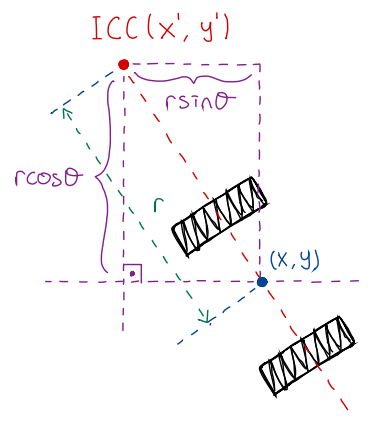
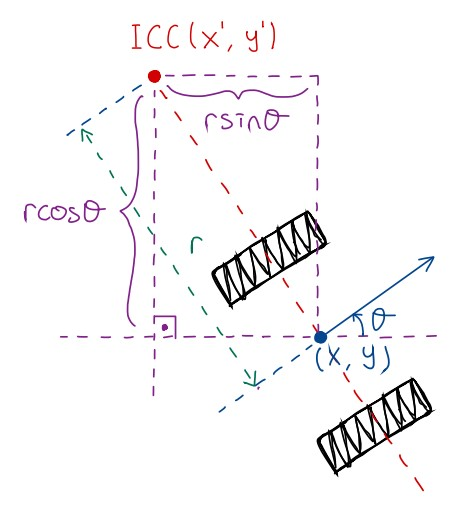
Update README.md

diff --git a/README.md b/README.md
@@ -2,11 +2,11 @@
 
 A differential wheeled robot is a mobile robot whose movement is based on two separately driven wheels placed on either side of the robot body. It can thus change its direction by varying the relative rate of rotation of its wheels and hence does not require an additional steering motion.
 
-Many mobile robots use a drive mechanism known as differential drive. It consists of 2 drive wheels mounted on a common axis, and each wheel can independently being driven either forward or backward.
-
 <p align="center">
-  <img src="https://github.com/abdullahdangac/Differential-Drive-Robot-Simulations/blob/main/images/differential_drive_robot.png" alt="Differential Drive Robot" width="30%" height="30%" title="Differential Drive Robot">
+  <img src="https://github.com/abdullahdangac/Differential-Drive-Robot-Simulations/blob/main/images/differential_drive_robot.png" alt="Differential Drive Robot" width="32%" height="32%" title="Differential Drive Robot">
 </p>
+
+Many mobile robots use a drive mechanism known as differential drive. It consists of 2 drive wheels mounted on a common axis, and each wheel can independently being driven either forward or backward.
 
 
 <br />
@@ -15,7 +15,7 @@ Many mobile robots use a drive mechanism known as differential drive. It consist
 ## Differential Drive Behavior
 
 <p align="center">
-  <img src="https://github.com/abdullahdangac/Differential-Drive-Robot-Simulations/blob/main/images/robot_by_icc.png" alt="Robot by ICC" width="33%" height="33%" title="Robot by ICC">
+  <img src="https://github.com/abdullahdangac/Differential-Drive-Robot-Simulations/blob/main/images/robot_by_icc.png" alt="Robot by ICC" width="35%" height="35%" title="Robot by ICC">
 </p>
 
 $v_r : linear$&nbsp; $velocity$&nbsp; $of$&nbsp; $right$&nbsp; $wheel$  
@@ -24,6 +24,8 @@ $v : linear$&nbsp; $velocity$&nbsp; $of$&nbsp; $robot$;
 $w : angular$&nbsp; $velocity$&nbsp; $of$&nbsp; $robot$  
 $r : radius$&nbsp; $of$&nbsp; $curvature$;  
 $l : width$&nbsp; $of$&nbsp; $robot$;
+
+By varying the velocities of the two wheels, we can vary the trajectories that the robot takes. Because the rate of rotation $w$ about the ICC must be the same for both wheels, we can write the following equations:  
 
 $$v_l = w(r - \frac{l}{2})$$  
 
@@ -44,7 +46,7 @@ $$r = \frac{l}{2}\frac{(v_r + v_l)}{(v_r - v_l)}$$
 If the robot is moving in a curve, there is a center of that curve at that moment, known as the Instantaneous Center of Curvature (or ICC).
 
 <p align="center">
-  <img src="https://github.com/abdullahdangac/Differential-Drive-Robot-Simulations/blob/main/images/icc_pose_update.png" alt="ICC Pose Update" width="38%" height="38%" title="ICC Pose Update">
+  <img src="https://github.com/abdullahdangac/Differential-Drive-Robot-Simulations/blob/main/images/icc_pose_update.png" alt="ICC Pose Update" width="40%" height="40%" title="ICC Pose Update">
 </p>
 
 
@@ -53,12 +55,12 @@ If the robot is moving in a curve, there is a center of that curve at that momen
 ICC point formula:
 
 <p align="center">
-  <img src="https://github.com/abdullahdangac/Differential-Drive-Robot-Simulations/blob/main/images/icc_point.png" alt="ICC Point" width="30%" height="30%" title="ICC Point">
+  <img src="https://github.com/abdullahdangac/Differential-Drive-Robot-Simulations/blob/main/images/icc_point.png" alt="ICC Point" width="33%" height="33%" title="ICC Point">
 
 
 $$x' = x - r\sin\theta$$
 
-$$y' = y - r\cos\theta$$  
+$$y' = y + r\cos\theta$$  
 
 
 <br />
@@ -70,8 +72,10 @@ $$y' = y - r\cos\theta$$
 In linear algebra, a rotation matrix is a transformation matrix that is used to perform a rotation in Euclidean space.
 
 <p align="center">
-  <img src="https://github.com/abdullahdangac/Differential-Drive-Robot-Simulations/blob/main/images/rotation.png" alt="Rotation" width="27%" height="27%" title="Rotation">
-</p>
+  <img src="https://github.com/abdullahdangac/Differential-Drive-Robot-Simulations/blob/main/images/rotation.png" alt="Rotation" width="30%" height="30%" title="Rotation">
+</p>  
+
+new position of the robot rotated at an angle theta around the origin:  
 
 $$
 \begin{bmatrix} 
@@ -137,7 +141,7 @@ $$\theta' = \theta + w\delta t$$
 Unicycle robot, an idealised one-wheeled robot moving in a two-dimensional world, used as an example in control theory problems.
 
 <p align="center">
-  <img src="https://github.com/abdullahdangac/Differential-Drive-Robot-Simulations/blob/main/images/unicycle_model.png" alt="Unicycle Model" width="32%" height="32%" title="Unicycle Model">
+  <img src="https://github.com/abdullahdangac/Differential-Drive-Robot-Simulations/blob/main/images/unicycle_model.png" alt="Unicycle Model" width="35%" height="35%" title="Unicycle Model">
 </p>
 
 <br />
@@ -154,13 +158,13 @@ $$
 
 <br />
 
-axis velocities of unicycle model:
+axis velocities of unicycle robot:
 
-$$v_x = \dot x = v\cos\phi$$
+$$\dot x = v\cos\phi$$
 
-$$v_y = \dot y = v\sin\phi$$
+$$\dot y = v\sin\phi$$
 
-$$w = \dot\phi = w$$
+$$\dot\phi = w$$
 
 
 <br />
@@ -195,13 +199,17 @@ The Euler method is a first-order method, which means that the local error (erro
 
 $$\frac{dx}{dt} = f(x,t)$$
 
+discretization:
+
 $$\frac{\Delta x}{\Delta t} = f(x,t)$$
 
-$\Delta x = x_{n+1} - x_n$
+&emsp; &emsp; &emsp; &emsp; &emsp; &emsp; &emsp; &emsp; &emsp; &emsp; &emsp; &emsp; &emsp; &emsp; &emsp; &emsp; &emsp; &emsp; &emsp; &emsp; &emsp; &emsp; &emsp; &emsp; &emsp; &emsp; &emsp; &emsp; &emsp; &emsp; &emsp; &emsp; &emsp; &emsp; &emsp; &emsp; $\Delta x = x_{n+1} - x_n$
+
+&emsp; &emsp; &emsp; &emsp; &emsp; &emsp; &emsp; &emsp; &emsp; &emsp; &emsp; &emsp; &emsp; &emsp; &emsp; &emsp; &emsp; &emsp; &emsp; &emsp; &emsp; &emsp; &emsp; &emsp; &emsp; &emsp; &emsp; &emsp; &emsp; &emsp; &emsp; &emsp; &emsp; &emsp; &emsp; &emsp; $\Delta t = t_{n+1} - t_n$ &ensp; $(uniorm$&nbsp; $step$&nbsp; $size)$
 
 $$\frac{x_{n+1} - x_n}{\Delta t} = f(x_n,t_n)$$
 
-$\Delta t = t_{n+1} - t_n$ &nbsp; &nbsp; $(uniorm$&nbsp; $step$&nbsp; $size)$
+update equation:
 
 $$x_{n+1} = x_n + \Delta t f(x_n, t_n)$$
 
